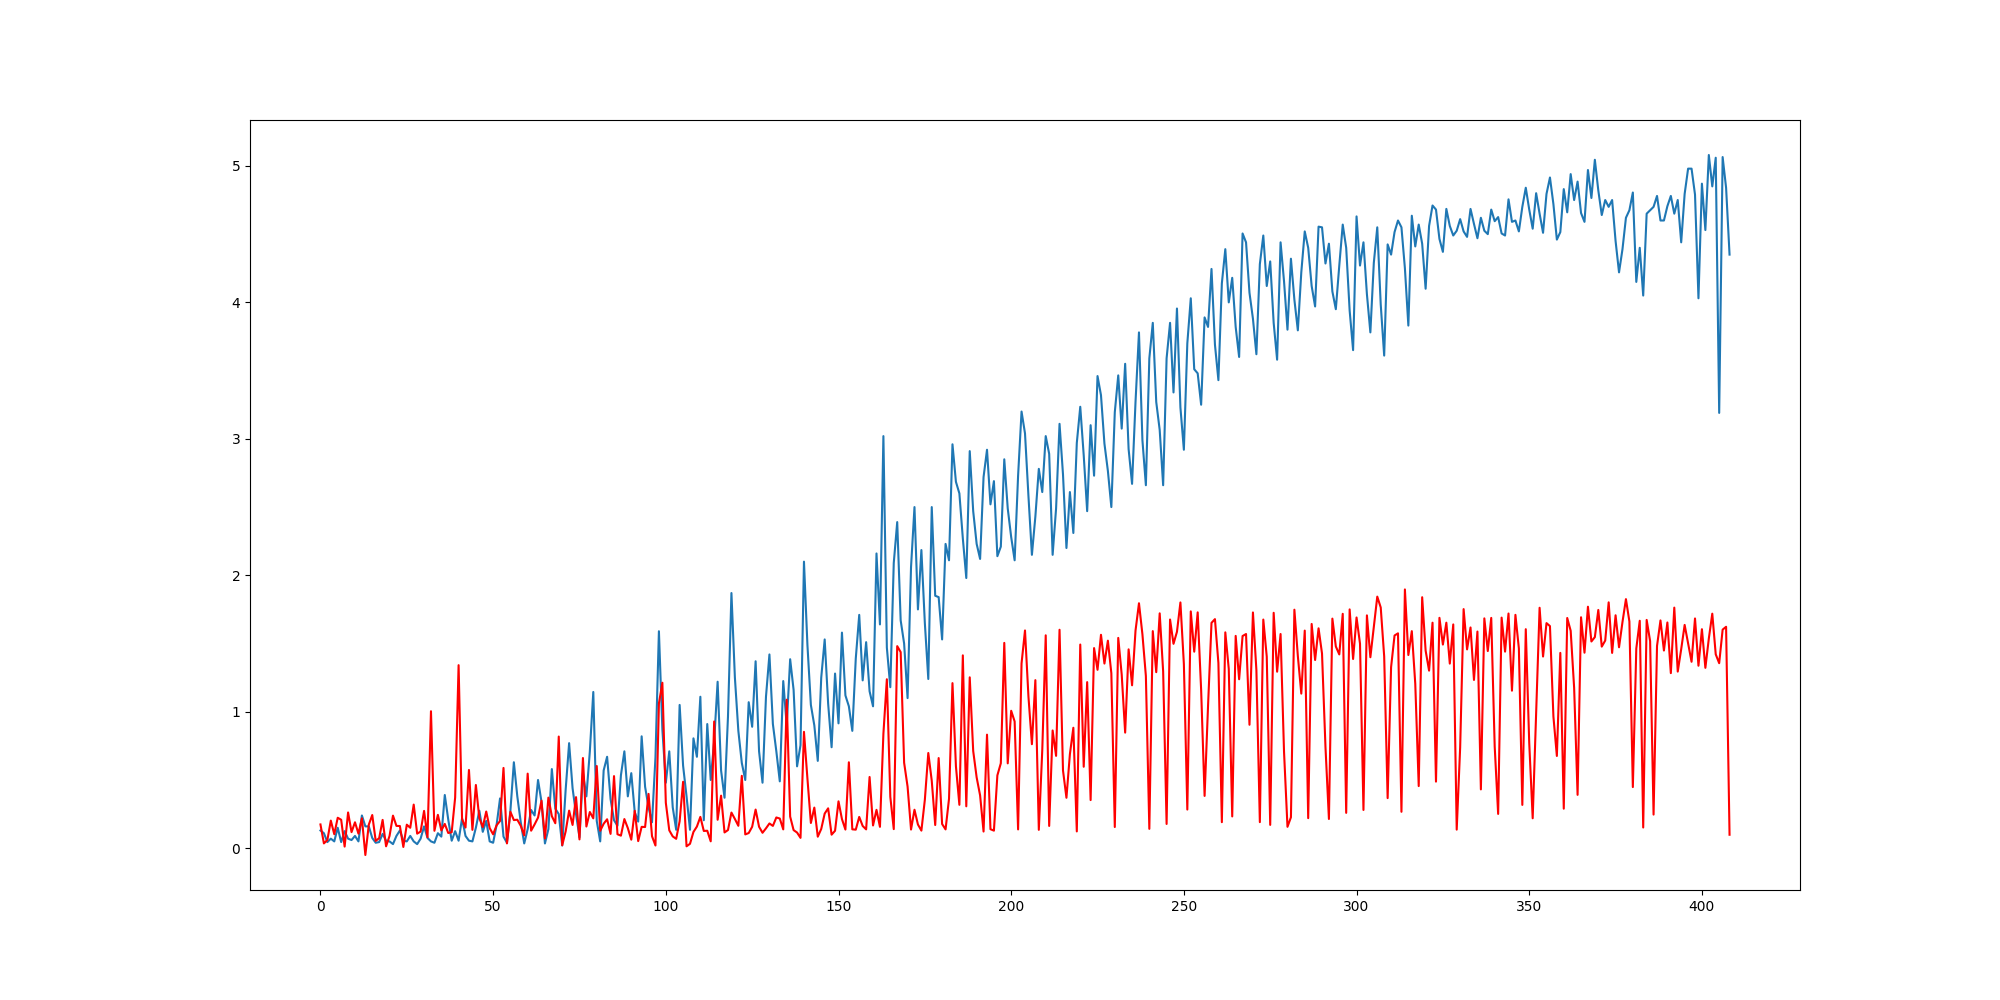
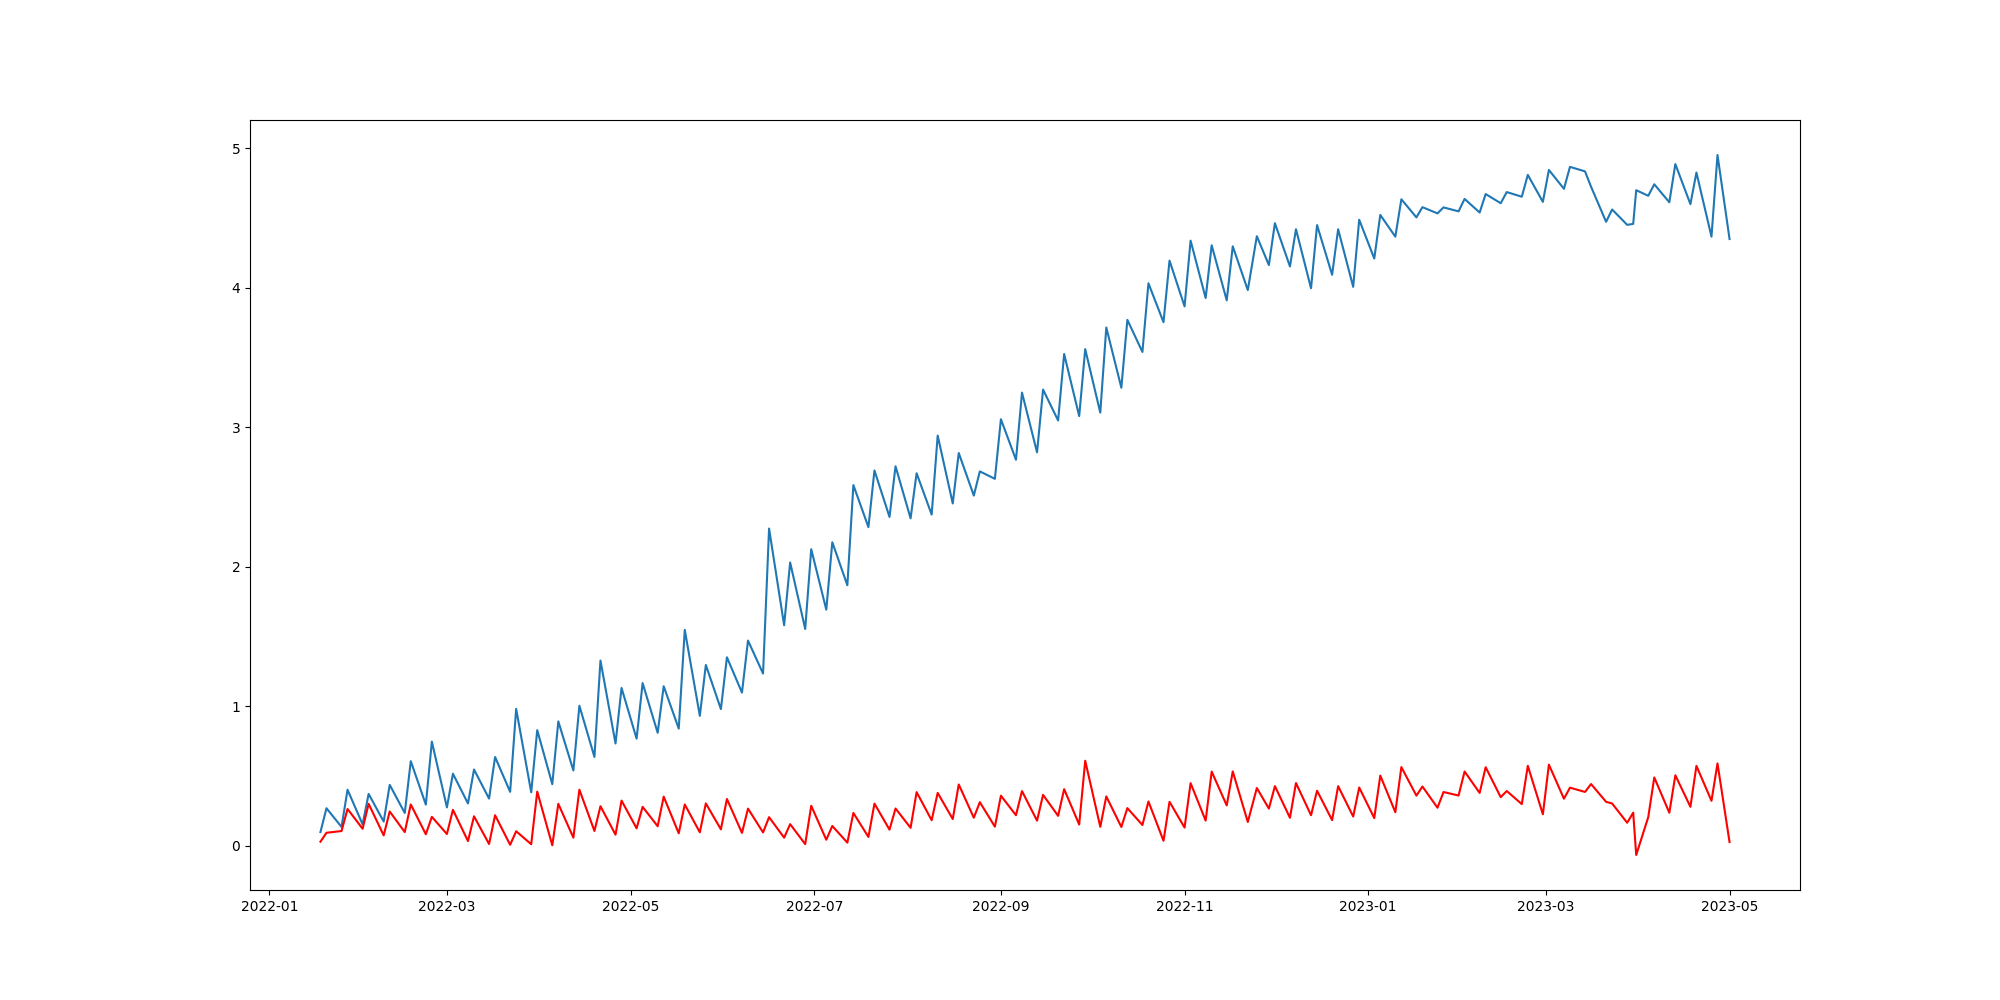
fixed plots for cnn and rnn

diff --git a/cnn.py b/cnn.py
@@ -280,9 +280,18 @@ def cnn(df):
     mse = mean_squared_error(y_test,preds)
     print("mse is " + str(mse))
 
+    Ytest_df = pd.DataFrame(Ytest, columns = ['Value'])
+    Ytest_df.insert(0, 'Date', timestamps2.tolist(), True)
+    Ytest_df = Ytest_df.groupby('Date')['Value'].mean().reset_index()
+
+    preds_df = pd.DataFrame(preds, columns = ['Value'])
+    preds_df.insert(0, 'Date', timestamps2.tolist(), True)
+    preds_df = preds_df.groupby('Date')['Value'].mean().reset_index()
+
+    # plot
     pyplot.figure(figsize=(20,10))
-    pyplot.plot(Ytest)
-    pyplot.plot(preds, 'r')
+    pyplot.plot(Ytest_df['Date'], Ytest_df['Value'])
+    pyplot.plot(preds_df['Date'], preds_df['Value'], 'r')
     pyplot.savefig('images/cnn.png')
     pyplot.show()
    # model.fit(X_train, y_train, epochs=10)
@@ -383,6 +392,8 @@ def cnn_crossval_arima(df):
 
     mse_scores = []
 
+    i = 0
+
     for train_index, test_index in tscv.split(data):
         train_data = data.iloc[train_index]
         test_data = data.iloc[test_index]
@@ -428,17 +439,27 @@ def cnn_crossval_arima(df):
         print("mse is " + str(mse))
         mse_scores.append(mse)
 
+        Ytest_df = pd.DataFrame(Ytest, columns = ['Value'])
+        Ytest_df.insert(0, 'Date', timestamps.iloc[test_index].tolist(), True)
+        Ytest_df = Ytest_df.groupby('Date')['Value'].mean().reset_index()
+
+        preds_df = pd.DataFrame(preds, columns = ['Value'])
+        preds_df.insert(0, 'Date', timestamps.iloc[test_index].tolist(), True)
+        preds_df = preds_df.groupby('Date')['Value'].mean().reset_index()
+
         # plot
         pyplot.figure(figsize=(20,10))
-        pyplot.plot(Ytest)
-        pyplot.plot(preds, 'r')
-        pyplot.savefig('images/cnn.png')
+        pyplot.plot(Ytest_df['Date'], Ytest_df['Value'])
+        pyplot.plot(preds_df['Date'], preds_df['Value'], 'r')
+        pyplot.xlabel("Dates")
+        pyplot.ylabel("Values")
+        pyplot.savefig('images/cnn_cv/cnn' + str(i) + '.png')
         pyplot.show()
+        i += 1
     mean_mse = np.mean(mse_scores)
     print("mean mse is " + str(mean_mse))
 
-#cnn('df_all')
+cnn('df_all')
 #cnn_crossval('df_all')
-cnn_crossval_arima('df_all')
-print("hello")
+# cnn_crossval_arima('df_all')
 

diff --git a/rnn.py b/rnn.py
@@ -10,6 +10,7 @@ from keras.layers import Dense, LSTM, Dropout
 def get_rnn(df):
     df = utils.get_auction_type_df(df)
     train_data, test_data = utils.split_train_test(df, 0.7, split_xy=False)
+    test_dates = test_data['date'].tolist()
     train_data = train_data.drop(['date', 'Maturity date'], axis=1)
     test_data = test_data.drop(['date', 'Maturity date'], axis=1)
 
@@ -60,11 +61,14 @@ def get_rnn(df):
     final_open_pred.columns = ['final_open_pred']
 
     final = pd.concat((final_open_pred, test_data.reset_index(drop=True)), axis=1)
+    final.insert(0, 'Date', test_dates, True)
+    print(final)
 
-    plt.plot(final['Auction high rate %'], label='actual', color='red')
-    plt.plot(final['final_open_pred'], label='predicted', color='blue')
+    plt.plot(final['Date'], final['Auction high rate %'], label='actual', color='red')
+    plt.plot(final['Date'], final['final_open_pred'], label='predicted', color='blue')
     plt.legend()
-    plt.show()
+    # plt.show()
+    plt.savefig('images/rnn.png')
 
 """ import numpy as np
 import pandas as pd
@@ -161,4 +165,4 @@ def get_rnn(df):
 
     print(predictions) """
 
-get_rnn('four_week')
+get_rnn('thirteen_week')
